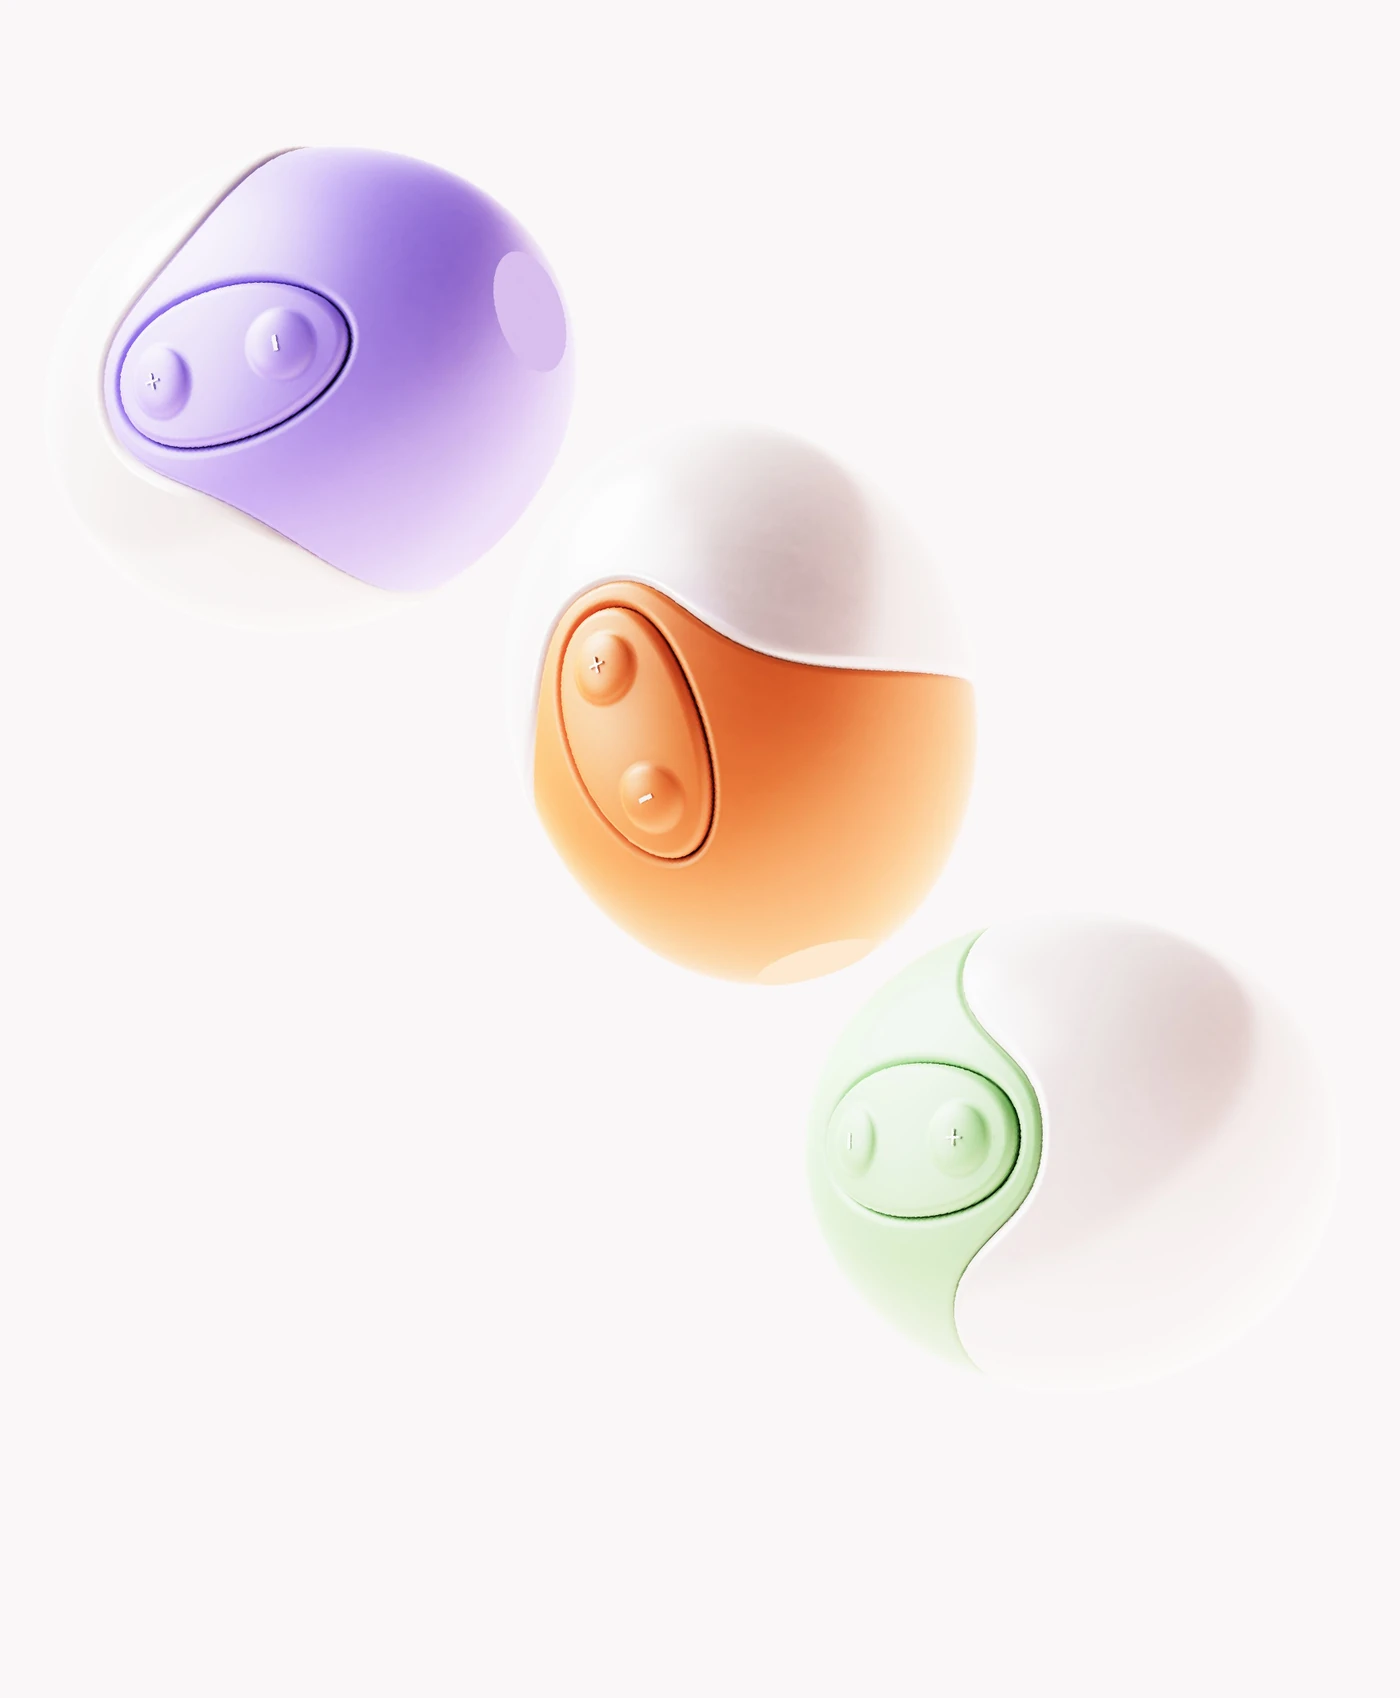
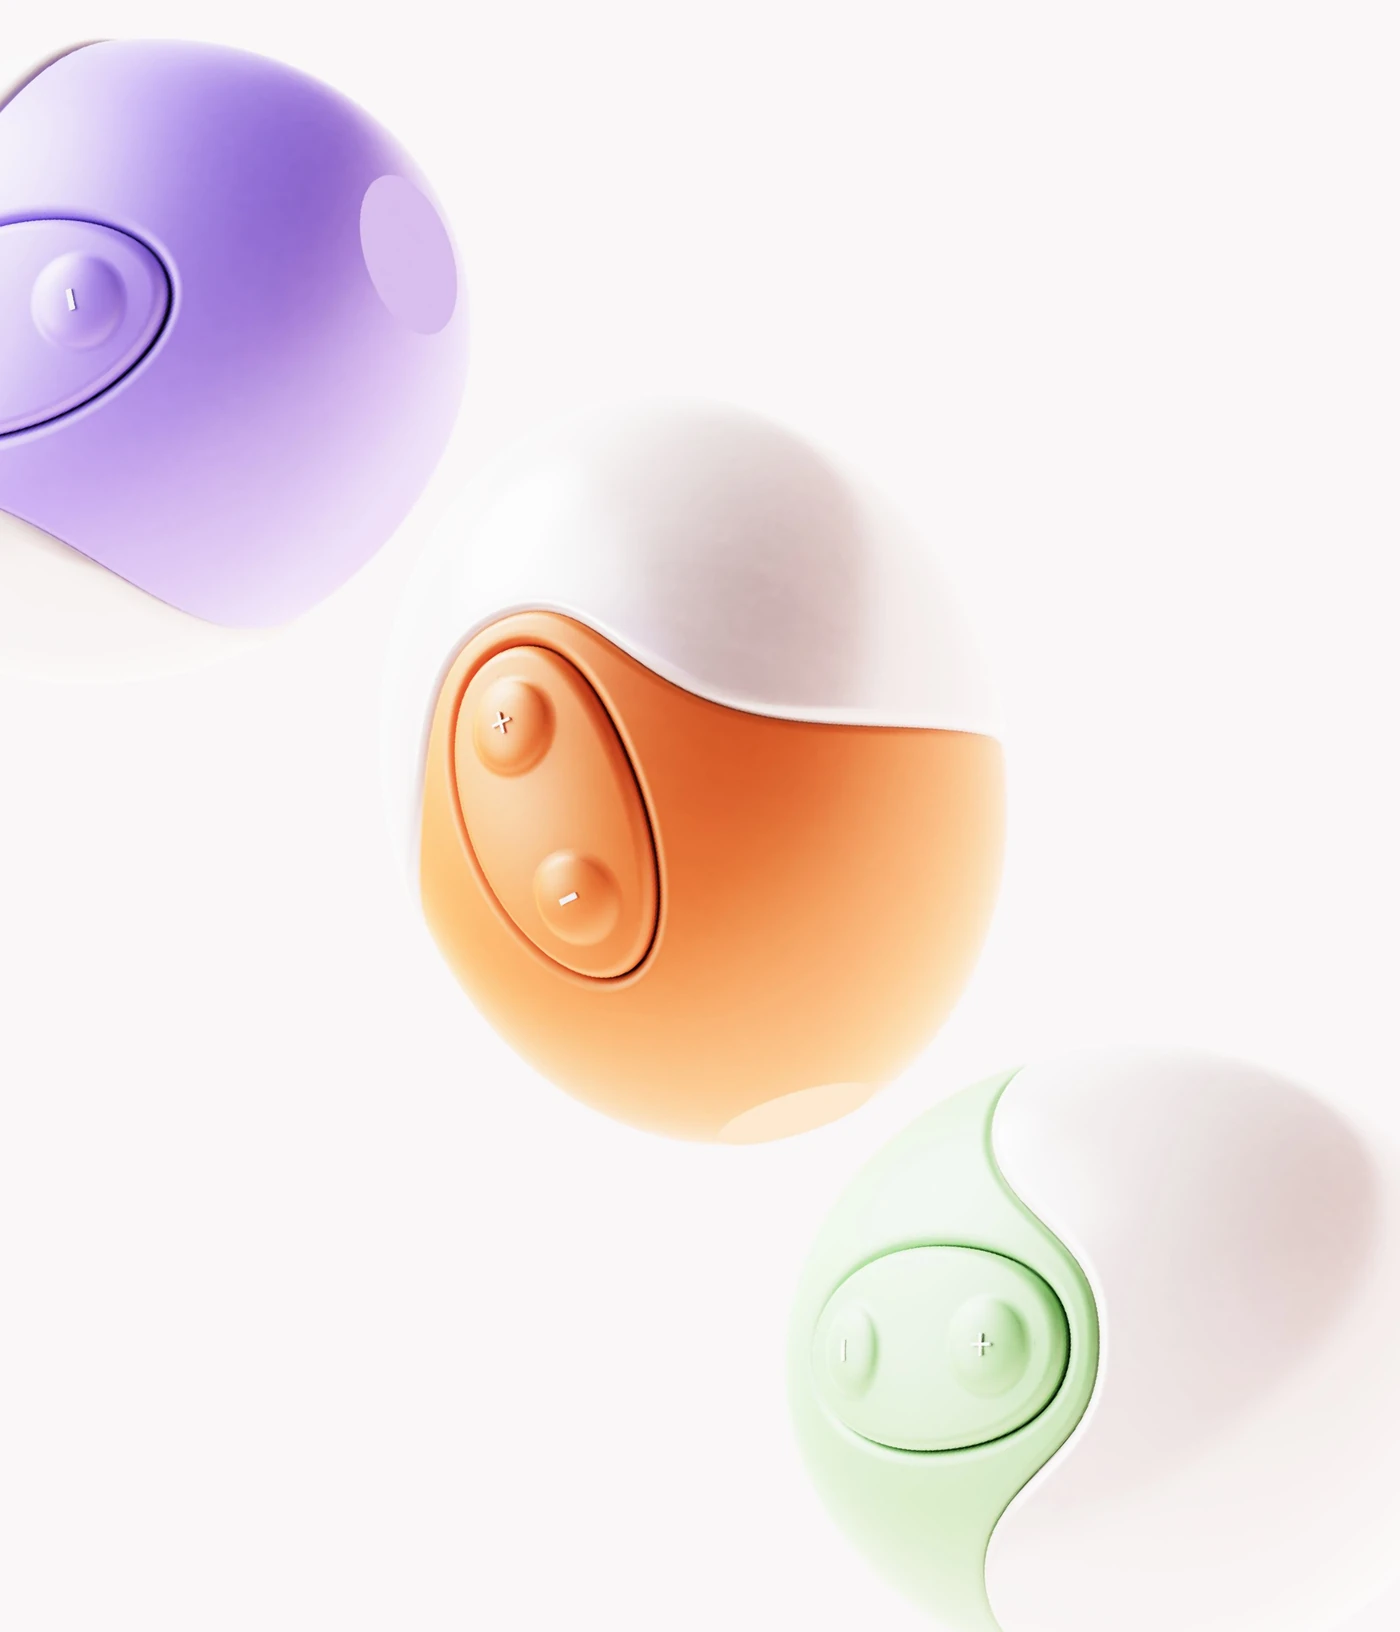
New Tangerine cover frame, full bleed
Your tighter frame (rendered at 2x, 1400 x 1632) fills the cover, the
lights running off its edges, with the title and issue line over it.

Claude-Session: https://claude.ai/code/session_01XrsNxmTzmpsovjqss1yHEC

diff --git a/assets/css/style.css b/assets/css/style.css
@@ -890,14 +890,14 @@ a.btn { color: inherit; text-decoration: none; }
 /* Tangerine: the render, whole, above the title. The covers take on the render's own off-white
    (.page--tangerine), so the picture sits on them without an edge. */
 .page--board.page--tangerine { background: #f9f7f7; }
-/* the whole cover frame from Figma, its lights falling diagonally above the title */
+/* the cover frame from Figma, full bleed: its lights fall diagonally off the edges, behind the title */
 .cover__img--photo {
   top: 0;
   left: 0;
   width: 100%;
   height: 100%;
-  object-fit: contain;
-  object-position: 50% 0%;
+  object-fit: cover;
+  object-position: 50% 50%;
   mix-blend-mode: normal;
 }
 /* a large drawing with an even margin of white around it, above the title (Vivonne Cabin) */

diff --git a/README.md b/README.md
@@ -163,10 +163,10 @@ The covers use one render or drawing each. The Sting Rays render is still croppe
 sting-rays-render-hero.webp    (Sting Rays cover)
 vivonne-axonometric.webp       (Vivonne Cabin cover: the axonometric, 1408 × 1022, large with a white margin, `cover__img--fill`)
 super-slides-hero.webp         (Super Slides cover: the bone slide, 1600 × 2000)
-tangerine-hero.webp            (Tangerine cover: your cover frame, the three lights falling diagonally, 1400 × 1698)
+tangerine-hero.webp            (Tangerine cover: your cover frame, the three lights falling diagonally off the edges, 1400 × 1633)
 ```
 
-The Tangerine cover shows your whole cover frame, with the title across the foot of the cover below the lights. Its backdrop is a soft off-white, #f9f7f7, so the Tangerine covers take on that colour (`page--tangerine` in `style.css`) and the picture has no visible edge; if you replace the render with one on a different background, change that colour to match.
+The Tangerine cover shows your cover frame full bleed, with the title across the foot of the cover. Its backdrop is a soft off-white, #f9f7f7, so the Tangerine covers take on that colour (`page--tangerine` in `style.css`) and the picture has no visible edge; if you replace the render with one on a different background, change that colour to match.
 
 ### Text on the covers
 
